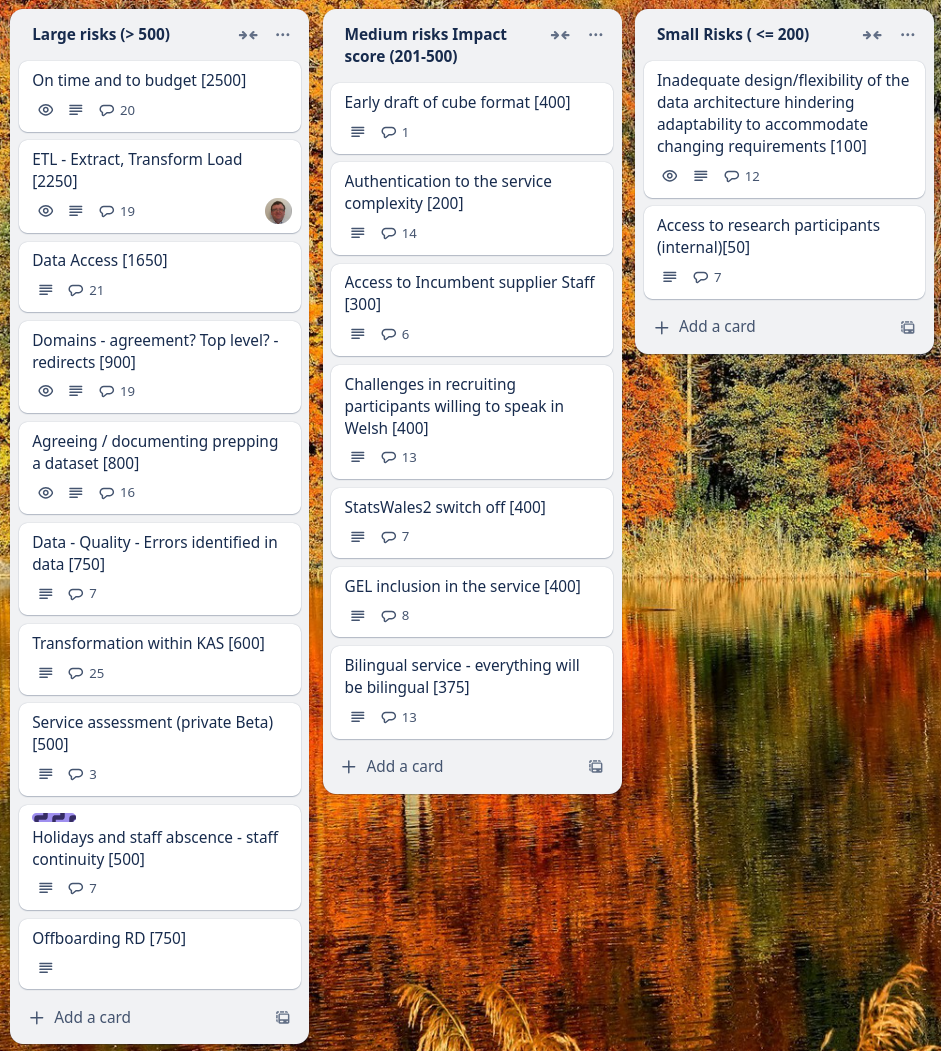
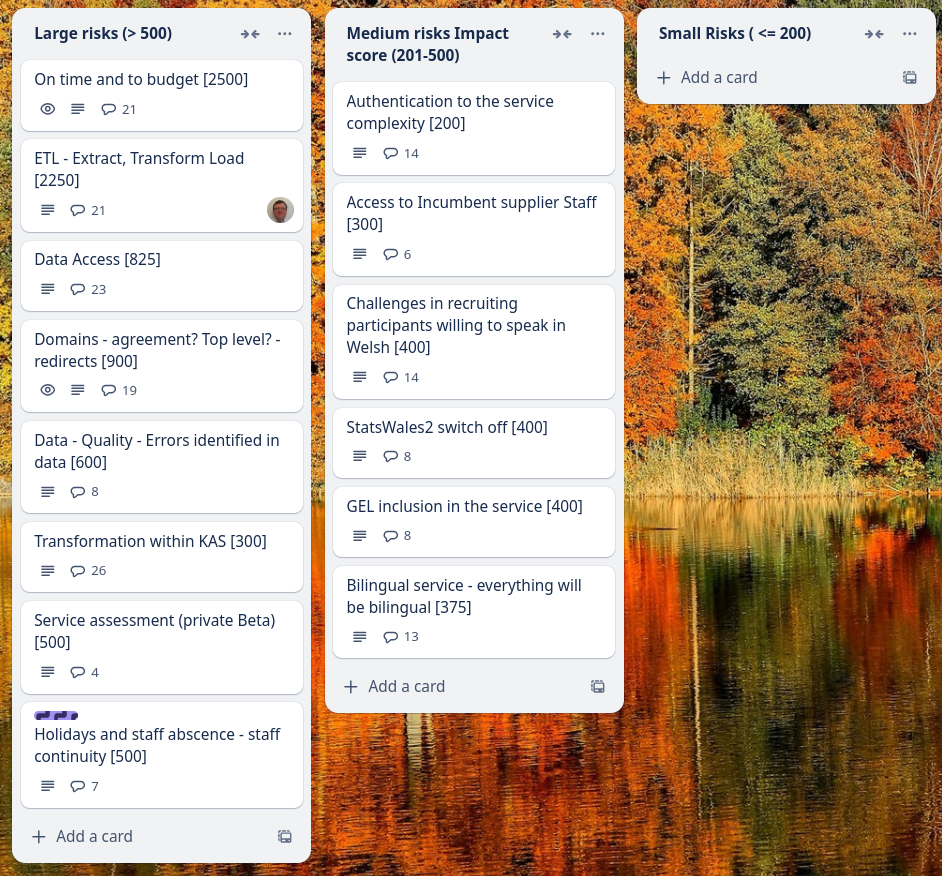
Better view of what's been done this week

diff --git a/content/en/statswales/project-reports/sprint21-mid/index.md b/content/en/statswales/project-reports/sprint21-mid/index.md
@@ -1,13 +1,13 @@
 ---
-title: Sprint 21-mid venn 
+title: Sprint 21-mid Venn diagram
 date: 2024-12-09
-description: Sprint report for the StatsWales3 Sprint 20-mid 
+description: Sprint report for the StatsWales3 Sprint 21-mid 
 ---
 
 Weekly report
 =============
 
-venn
+Venn diagram
 ------------------------------
 
 ![venn](venn2.png)
@@ -15,25 +15,33 @@ venn
 What we did last week
 ------------------------
 
-- Send invites to taxonomy follow up research with publishers
+- Iterate beta product roadmap beyond  mvp build
+- Metadata: Add a data source from the selected data provider lacks validation
+- Metadata: Publisher organisation and contact
+- Metadata: Topics
+- Suggested changes from metadata design review
+- Time format - understand our approach [Decision]
+- Provide a way for the user to log out from the frontend
+- Metadata: Sources added
+- Metadata: Add a data source from the selected data provider
+- Metadata: Add a data provider
+
 
 What we're planning to do this week
 -----------------------------------
 
 - Explore the design of views with larger / more complex datasets
 - Onboard MVP collaborators
-- Iterate beta product roadmap beyond  mvp build
-- Handover from Register Dynamics
-- Metadata: Publisher organisation and contact
-- Configure a suitable testing suite for e2e tests
-- Prepare to test the next iteration of working software (ref data and metadata) with SME publisher
-- Hold workshop to discuss data migration
+- Handover from Register Dynamics 
+- Prepare to test the next iteration of working software (ref data and metadata) with SME publisher 
+- Hold workshop to plan data migration exercise
 - Deploy front-end and back-end applications into automated infrastructure
 - Time source
-- Content and error message updates to initial create journey screens
 - Dimension: Dates reference data branch
+- Publishing: Translation export and import
 - Dimensions: Choose common reference data
 - Stand up the service in WG Azure
+
 
 These are the goals that we set for this sprint
 -----------------------------------------------
@@ -51,5 +59,4 @@ Screen shot of risks and issues board
 Chart showing change in risk profile
 ------------------------------------
 
-![Chart showing change in risk profile](riskImpactScore20241125.png)
-
+![Chart showing change in risk profile](riskImpact20241209.png)
